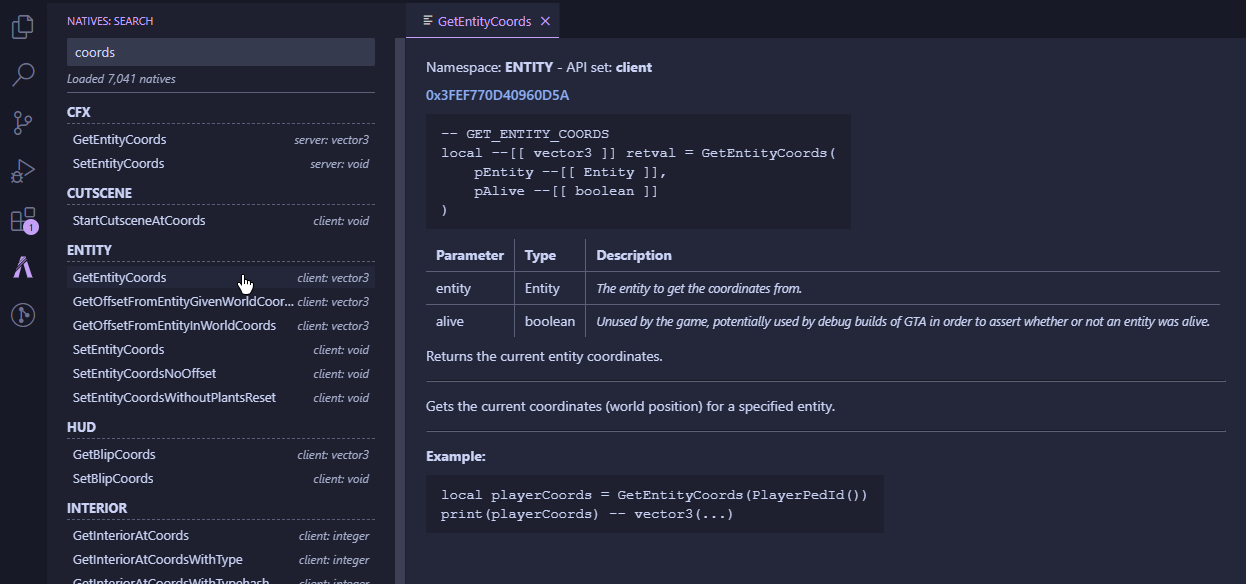
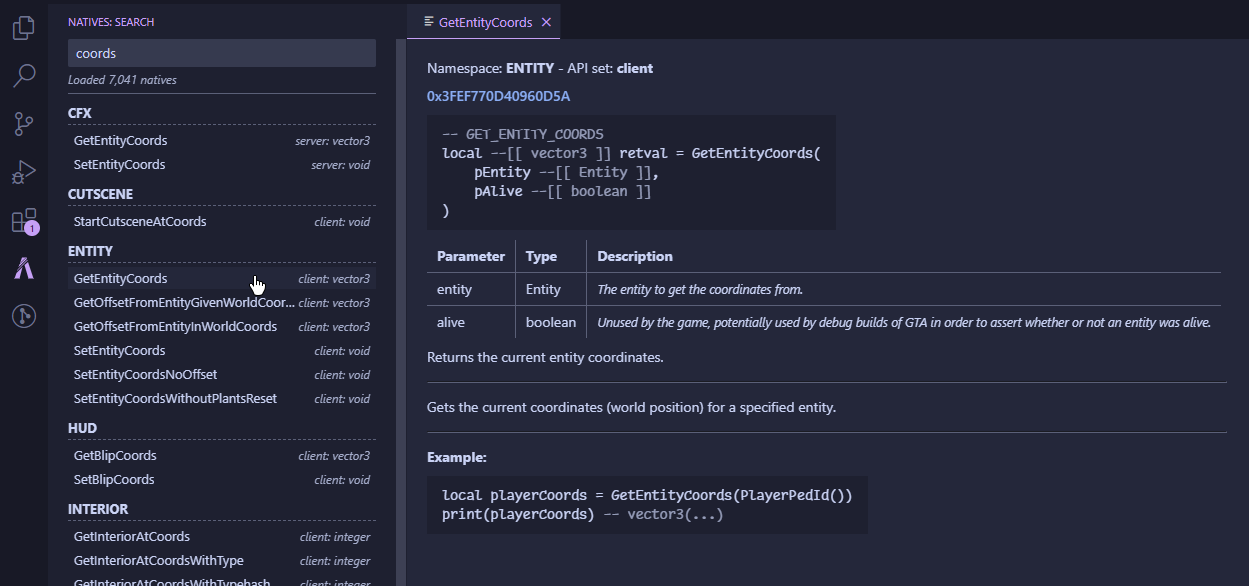
fix some small bugs with the search

diff --git a/view/native.html b/view/native.html
@@ -24,11 +24,15 @@
     }
 
     pre {
-        font-family: var(--vscode-editor-font-family);
         background-color: var(--vscode-textBlockQuote-background);
-        color: var(--vscode-textBlockQuote-foreground);
         padding: 10px 15px;
         width: fit-content;
+    }
+
+    code {
+        font-family: var(--vscode-editor-font-family);
+        font-size: var(--vscode-editor-font-size);
+        font-weight: var(--vscode-editor-font-weight);
     }
 
     a {
@@ -68,4 +72,16 @@
         border-color: var(--vscode-menu-separatorBackground);
         margin: 15px 0;
     }
+
+    .comment {
+        opacity: 0.7;
+    }
 </style>
+
+<script>
+    document.querySelectorAll("pre").forEach((pre) => {
+        pre.innerHTML = pre.innerHTML.replace(/--.+?(]]|(?=$))/gm, (match) => {
+            return `<span class="comment">${match}</span>`;
+        });
+    });
+</script>

diff --git a/view.js b/view.js
@@ -82,7 +82,9 @@ class Provider {
 
                 if (native) {
                     if (!this.viewer) {
-                        this.viewer = vscode.window.createWebviewPanel('vs-fivem.nativeView', native.name, vscode.ViewColumn.One);
+                        this.viewer = vscode.window.createWebviewPanel('vs-fivem.nativeView', native.name, vscode.ViewColumn.One, {
+                            enableScripts: true
+                        });
 
                         this.viewer.onDidDispose(() => {
                             this.viewer = null;
